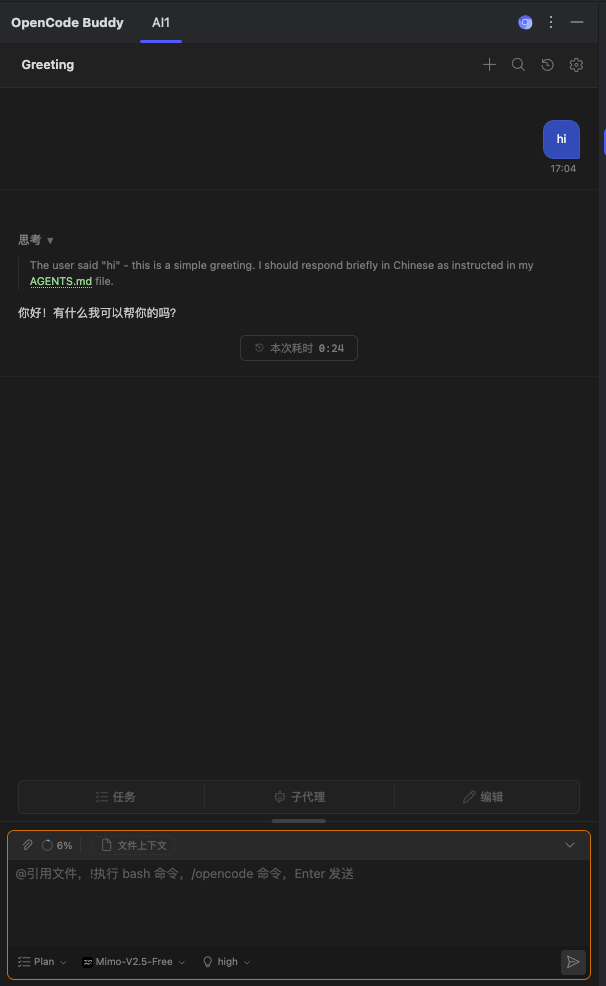
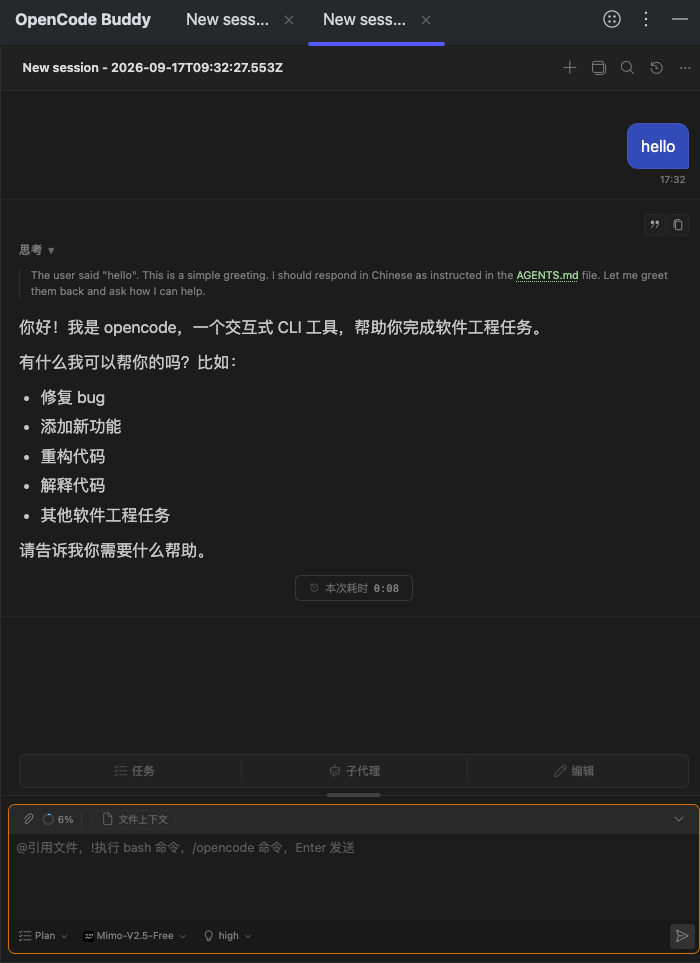
✨ 修改 readme

diff --git a/README.zh-CN.md b/README.zh-CN.md
@@ -31,57 +31,65 @@ Gemini购买了Pro套餐，DeepSeek花费约￥82.15。
 
 ## 功能特性
 
-- **持久化 opencode 守护进程** —— 无需为每条消息生成进程。`opencode serve`（默认端口 4096，可用
-  `OPENCODE_PORT` 覆盖）按需启动或复用，跨请求保持预热，崩溃后自动重启。
-- **完整聊天界面** —— 流式文本、思考增量、带 diff 的工具调用卡片；工具窗口内多标签会话，支持脱离为独立窗口。
-- **原生输入** —— `@文件名` 引用、图片附件、编辑器选区/文件路径一键发送、opencode 原生斜杠命令
-  （`/init`、`/review` 等）、`!shell` 命令，以及上下文压缩流程。
-- **Agent / 模型 / 推理力度** —— build / plan 模式切换，读取 opencode 配置里的任意 provider + model 组合，
-  以及推理力度（variant）选择。
-- **审批流** —— 权限审批（once / always / reject）、question 提问和 plan 计划审批，全部在聊天区内以原生面板呈现。
-- **会话管理** —— 本地会话索引 + 收藏 + 搜索，revert / fork / compact，历史导出。
-- **MCP** —— 服务器状态查看与市场（安装 / 移除 MCP 服务器）。
-- **IDE 集成** —— 编辑器、项目视图、编辑器标签页、控制台右键菜单动作，以及 VCS 提交工具栏的
-  *Generate Commit Message*（通过 Git4Idea 跑真实 `git diff`）。
-- **跟随 IDE** —— 明暗主题跟随 IDE，可同步 IDE 字体，界面支持中英双语。
+- **多标签与多会话管理** —— 支持在 IDE 工具窗口内打开多个独立的对话标签页，标签页支持重命名、一键新建、关闭、脱离为独立浮动窗口，并具备实时的“思考/回答中”状态指示。
+- **持久化 opencode 守护进程** —— 无需为每条消息重新生成进程。后台常驻 `opencode serve`（默认端口 4096，可用 `OPENCODE_PORT` 覆盖），通过 `@opencode-ai/sdk` v2 维持连接，支持心跳保活、进程预热与崩溃自愈重启。
+- **沉浸式完整聊天交互** —— SSE 流式文本回答、深度思考增量（Thinking 折叠/展开）、带代码 Diff 对比的工具调用卡片，支持随时中断生成、历史消息重新编辑与撤销重试。
+- **原生输入与上下文感知** —— 支持 `@文件名` 智能补全与引用、图片等多模态附件拖拽/粘贴、opencode 原生斜杠命令（`/init`、`/review` 等）自动补全、`!shell` / `$` 命令行快捷执行。
+- **Agent / 模型 / 推理力度** —— `Build` / `Plan` 双模式一键切换，实时同步本地 opencode CLI 配置的全部 Provider + Model 组合，支持自定义模型配置，以及推理力度（Reasoning Effort / Variant）与 Always Thinking 开关。
+- **交互式审批与提问流** —— 工具执行与文件修改权限审批（Once 单次 / Always 始终 / Reject 拒绝）、Agent 主动提问交互（Ask User Question 表单交互）和计划审批（Plan Approval）面板。
+- **会话管理、搜索与 Markdown 导出** —— 本地会话历史索引与检索、会话全文搜索（`Ctrl+F` / `⌘F`）、历史回退（Revert）、会话分支（Fork）、上下文压缩（Compact）、会话一键导出为标准 Markdown 文档，以及 OpenCode 会话分享链接（Share）生成与管理。
+- **Token 用量统计与可视化看板** —— 实时 Token 消耗指示器与模型上下文窗口占用百分比，点击可展开上下文用量分解详情，内置多维度 TokenTracker 统计看板（包含调用次数、消耗图表与费用预估）。
+- **MCP 市场与技能生态** —— MCP 服务器状态监控、工具列表查看，支持通过内置 MCP 市场（Marketplace）一键搜索、安装、卸载与配置 MCP 服务器，支持本地与托管 Skills 技能扫描管理。
+- **深度 IDE 融合与个性化** —— 界面深色/浅色主题自适应跟随 IDE，自动同步 IDE 编辑器与界面字体（支持自定义字体与字号），底部状态栏小组件实时提示任务状态，智能感知终端与控制台输出，界面支持中英双语无缝切换。
 
 ## 使用教程
 
 ### 1. 打开聊天窗口
 
-安装插件后，通过 **View → Tool Windows → OpenCode** 打开（默认在右侧边栏）。若本机已有 `opencode serve`
-在运行则直接复用，否则插件会自行启动一个。
+安装插件后，通过 **View → Tool Windows → OpenCode** 打开（默认停靠在右侧边栏）。若本机已有 `opencode serve` 在运行则直接复用，否则插件会自动启动常驻服务。
 
-<img src="media/home.png" width="400" alt="聊天主界面截图">
+<img src="media/home.png" width="600" alt="聊天主界面截图">
 
 聊天窗口包含：
 
-- **标签栏** —— 每个会话一个标签页，可重命名、脱离为独立窗口、存为模板。
-- **消息区** —— 流式回答、思考块、工具调用与内联 diff。
-- **输入框** —— `@文件名` 引用文件，`!命令` 执行 shell，`/命令` 执行 opencode 命令。回车发送，
-  `Shift+回车` 换行。
-- **底部工具栏** —— 模式（`Build` / `Plan`）、模型选择、推理力度、token 用量、附件，以及打开设置页的齿轮按钮。
+- **顶部标签栏** —— 支持多标签页并发对话，每个标签页维护独立会话，可双击/点击重命名，支持脱离为独立窗口或保存为模板。
+- **顶部操作栏** —— 包含返回、新建对话、新建标签页、会话内搜索、会话分享链接、Fork 分支、导出 Markdown、历史会话列表与设置按钮。
+- **消息区** —— 流式显示模型回答、思考过程折叠、工具调用详情与内联代码 Diff。
+- **输入框** —— `@文件名` 模糊搜索并引用文件，`/命令` 执行 opencode 原生斜杠命令，`!命令` 快速运行 shell 指令，支持拖拽或粘贴图片附件。回车发送，`Shift+回车` 换行（可在设置中切换快捷键模式）。
+- **底部工具栏** —— `Build` / `Plan` 模式切换、Provider 与模型选择、推理力度（Reasoning Effort）、Token 用量指示器（点击查看上下文分解）与设置入口。
 
-### 2. 快捷键与右键菜单
+### 2. 常用操作与交互指南
 
-| 操作 | 快捷键 / 位置 |
+| 功能 / 操作 | 说明 |
 |---|---|
-| 把选中的代码发送到聊天输入框 | `Ctrl+Alt+K`（Win/Linux）· `⌘⌥K`（macOS），或编辑器右键菜单 *Send Selected Code to OpenCode Buddy Plugin* |
-| 让 opencode 分析 / 改进当前代码 | `Ctrl+Shift+Q` · `⌘⇧Q`，或编辑器右键菜单 *Ask OpenCode…* |
-| 复制选区的 AI 引用 | 编辑器右键菜单 *复制 AI 引用* |
-| 把文件路径发送到聊天输入框 | 项目视图 / 编辑器标签页右键菜单 *Send File Path to OpenCode Buddy* |
-| 把控制台输出发送到聊天输入框 | 控制台右键菜单 *Send to OpenCode Buddy* |
-| 生成提交信息 | VCS 提交工具栏 *Generate Commit Message* |
-| 在聊天框内隐藏工具窗口 | `Shift+Esc` |
-| 在 IDE 侧隐藏 / 显示工具窗口 | *Hide CC GUI Panel* 动作 —— 可在 **Settings → Keymap** 里绑定快捷键 |
+| **多标签会话** | 点击顶部 `+` 或工具栏新增标签页，多会话互不干扰；标签页右上角可将当前会话脱离为独立浮动窗口 |
+| **文件引用与补全** | 在输入框中输入 `@` 触发项目文件模糊搜索列表，支持键盘上下键选择并回车插入引用 |
+| **斜杠命令补全** | 在输入框中输入 `/` 弹出可用命令列表（如 `/init`、`/review`、`/compact` 等） |
+| **终端命令快捷执行** | 在输入框中以 `!` 或 `$` 开头直接执行终端命令 |
+| **附件与图片** | 支持将图片直接拖入输入框或从系统剪贴板粘贴（`Ctrl+V` / `⌘V`） |
+| **会话内搜索** | 点击顶部搜索图标或在聊天面板内按 `Ctrl+F` / `⌘F` 搜索历史消息内容 |
+| **导出 Markdown** | 点击顶部文档导出图标，可将完整会话（含对话、思考过程、工具调用与代码 Diff）一键导出为 `.md` 文件 |
+| **会话分享 (Share)** | 点击顶部分享图标，直接生成 OpenCode Web 分享链接并一键复制 |
+| **消息回退与分支** | 支持在历史消息上进行 Revert（回退到该步骤）或 Fork（从该步骤分叉出新会话） |
+| **审批与提问交互** | 当 Agent 触发工具执行或提问时，界面会弹出原生审批卡片（允许/拒绝）或选项表单，确认后继续执行 |
+| **Token 消耗详情** | 点击底部 Token 百分比指示器，可弹出当前会话上下文窗口占用与输入/输出 Token 分布详情 |
 
 ### 3. 个性化设置
 
-所有设置都在 webview 内：点击聊天窗口右上角的**齿轮图标**。左侧栏包含**基础配置**（主题、语言、字体、
-diff 主题、聊天背景色）、**供应商管理**、**命令（提示词）**、**使用统计**、**MCP 服务器**、**Skills**、
-**其他设置** 和 **赞赏支持**。持久化数据存放在 `~/.opencodebuddy`。
+点击聊天窗口右上角的**齿轮图标**进入设置界面。持久化配置保存在 `~/.opencodebuddy` 目录下：
 
-<img src="media/settings.png" width="400" alt="设置页截图">
+- **基础配置 (Basic Configuration)**：
+  - **外观**：明暗主题切换（跟随 IDE / Light / Dark）、字体同步（自动同步 IDE 字体 / 自定义字体文件与字号）、聊天背景色、气泡颜色与 Diff 高亮主题。
+  - **行为**：发送快捷键（`Enter` 或 `⌘+Enter`）、文件自动打开、Diff 默认展开、新建/压缩会话确认弹窗、任务完成气泡通知、提问弹窗提示、审批超时倒计时与提示音效配置。
+  - **环境**：Node.js 路径检测与自定义配置、`opencode` CLI 路径指定与检测、自定义工作目录。
+- **供应商管理 (Providers)**：查看和管理已配置的 Provider 与模型列表，支持添加自定义模型参数。
+- **使用统计 (Usage Statistics)**：内置 TokenTracker 数据看板，直观展示 Token 用量走势、调用频率与成本估算。
+- **MCP 服务器 (MCP Servers)**：查看已连接的 MCP 服务器与工具列表，并通过 **MCP 市场 (Marketplace)** 一键安装与配置各类 MCP 插件。
+- **Skills 技能管理**：扫描并管理项目工作区或全局的 Skills 扩展。
+- **其他设置**：历史记录数量上限、提示词管理与缓存清理。
+- **社区与赞赏**：版本更新日志（Changelog）、问题反馈与赞助支持。
+
+<img src="media/settings.png" width="600" alt="设置页截图">
 
 ## 环境要求
 

diff --git a/README.md b/README.md
@@ -31,65 +31,67 @@ donations are welcome — they help cover those costs.
 
 ## Features
 
-- **Persistent opencode daemon** — no per-message process spawn. `opencode serve` (default port 4096,
-  overridable with `OPENCODE_PORT`) is started or reused on demand, kept warm across requests, and restarted
-  on crash.
-- **Full chat surface** — streaming text, thinking deltas and tool-call cards with diffs; multi-tab
-  conversations inside the tool window and a detachable window.
-- **Native input** — `@file` mentions, image attachments, one-click send of the editor selection or file path,
-  opencode slash commands (`/init`, `/review`, …), `!shell` commands and a context-compaction flow.
-- **Agent, model & effort** — build / plan mode switching, any provider+model pair from your opencode
-  configuration, and reasoning-effort variants.
-- **Approvals** — permission dialogs (once / always / reject), question prompts and plan approval, all rendered
-  as native panels inside the chat.
-- **Sessions** — local session index with favourites and search, revert / fork / compact, history export.
-- **MCP** — server status and a marketplace for installing/removing MCP servers.
-- **IDE integration** — editor, project-view, editor-tab and console context-menu actions, plus *Generate Commit
-  Message* in the VCS commit toolbar (runs a real `git diff` through Git4Idea).
-- **Fits your IDE** — follows the IDE light/dark theme, can sync the IDE font, and ships a bilingual UI
-  (English / 简体中文).
+- **Multi-Tab & Multi-Session Management** — Open multiple independent conversation tabs inside the IDE tool window. Supports tab renaming, one-click creation, closing, detaching into floating windows, and live "answering / completed" status indicators.
+- **Persistent opencode Daemon** — No per-message process spawning. `opencode serve` (default port 4096, overridable with `OPENCODE_PORT`) runs as a persistent background daemon via `@opencode-ai/sdk` v2 with prewarm, heartbeat, and crash recovery.
+- **Rich Chat Surface** — SSE streamed responses, collapsible thinking deltas, tool-call cards with inline code diffs, generation interruption, and turn-by-turn edit / rewind.
+- **Native Input & Rich Context** — `@filename` fuzzy file search and insertion, image and attachment drag-and-drop / clipboard pasting, opencode slash commands (`/init`, `/review`, …), and `!shell` / `$` command execution.
+- **Agent, Models & Reasoning Effort** — One-click `Build` / `Plan` mode switching, full sync with all Provider + Model options in your local opencode configuration, custom model settings, reasoning-effort (variant) selection, and Always Thinking toggle.
+- **Interactive Approvals & Question Flows** — Native inline dialogs for tool execution / file modification permissions (Once / Always / Reject), Ask User Question interactive forms, and Plan Approval review.
+- **Session History, Search & Markdown Export** — Local session index with search (`Ctrl+F` / `⌘F`), session revert, conversation branching (Fork), context compaction, one-click export to Markdown (`.md`), and OpenCode Web share link generation.
+- **Token Usage & TokenTracker Dashboard** — Real-time token consumption indicator and context window percentage, expandable context usage breakdown, and built-in multi-dimensional TokenTracker dashboard (request count, consumption charts, cost estimation).
+- **MCP Marketplace & Skills** — MCP server status monitoring, tools overview, one-click install/uninstall/configure via the built-in MCP Marketplace, and workspace/managed Skills scanning.
+- **Deep IDE Integration & Customization** — Auto light/dark theme adaptation with the IDE, IDE editor & UI font synchronization (with custom font & size support), status-bar widget for agent status, terminal/console output awareness, and bilingual UI (English / 简体中文).
 
 ## Usage
 
 ### 1. Open the chat window
 
-Install the plugin, then open **View → Tool Windows → OpenCode** (it lives in the right sidebar stripe). The
-plugin reuses an `opencode serve` instance when one is already running and otherwise starts its own.
+Install the plugin, then open **View → Tool Windows → OpenCode** (docked in the right sidebar stripe). The plugin reuses an `opencode serve` instance when one is already running and otherwise starts its own daemon automatically.
 
-<img src="media/home.png" width="400" alt="Chat window">
+<img src="media/home.png" width="600" alt="Chat window">
 
 *The screenshot shows the UI in Simplified Chinese.*
 
 The chat window contains:
 
-- **Tab bar** — one tab per conversation; tabs can be renamed, detached into their own window, or templated.
-- **Message area** — streamed answer, thinking blocks and tool calls, with inline diffs.
-- **Input box** — `@filename` attaches files, `!command` runs a shell command, `/command` runs an opencode
-  command. `Enter` sends, `Shift+Enter` inserts a newline.
-- **Bottom toolbar** — mode (`Build` / `Plan`), model selector, reasoning depth, token usage, attachments, and
-  the gear icon that opens settings.
+- **Top Tab Bar** — Multi-tab concurrent conversations; tabs maintain independent state and can be renamed, closed, detached into floating windows, or saved as templates.
+- **Top Action Bar** — Back navigation, new conversation, new tab (`+`), in-conversation search, session share link, fork conversation, export Markdown, session history, and settings.
+- **Message Area** — Streamed responses, collapsible thinking blocks, tool calls with interactive diffs.
+- **Input Box** — `@filename` attaches files, `/command` runs opencode slash commands, `!command` runs shell commands, image attachments via drag & drop or paste. `Enter` sends, `Shift+Enter` inserts a newline (customizable in settings).
+- **Bottom Toolbar** — `Build` / `Plan` mode switch, Provider & model selector, reasoning effort, Token usage indicator (click to view context breakdown), and settings gear icon.
 
-### 2. Keyboard shortcuts and context menus
+### 2. Common Operations & Interaction Guide
 
-| Action | Shortcut / where |
+| Action / Feature | Description |
 |---|---|
-| Send the selected code to the chat input | `Ctrl+Alt+K` (Windows/Linux) · `⌘⌥K` (macOS), or *Send Selected Code to OpenCode Buddy Plugin* in the editor context menu |
-| Ask opencode to analyse / improve the current code | `Ctrl+Shift+Q` · `⌘⇧Q`, or *Ask OpenCode…* in the editor context menu |
-| Copy an AI reference for the selection | *Copy AI Reference* in the editor context menu |
-| Send a file path to the chat input | *Send File Path to OpenCode Buddy* in the Project view / editor tab context menu |
-| Send console output to the chat input | *Send to OpenCode Buddy* in the console context menu |
-| Generate a commit message | *Generate Commit Message* action in the VCS commit toolbar |
-| Hide the tool window while typing in the chat | `Shift+Esc` |
-| Hide / show the tool window from the IDE | *Hide CC GUI Panel* action — bind a shortcut in **Settings → Keymap** |
+| **Multi-Tab Sessions** | Click `+` in the header or toolbar to add new tabs; each tab runs an isolated session. Detach tabs into floating windows via the tab controls |
+| **File Mentions & Completion** | Type `@` in the input box to trigger fuzzy file search in the project, navigate with arrow keys, and press Enter to insert |
+| **Slash Command Completion** | Type `/` to open the command palette (e.g., `/init`, `/review`, `/compact`, …) |
+| **Quick Shell Execution** | Prefix input with `!` or `$` to execute shell commands directly |
+| **Images & Attachments** | Drag and drop image files directly into the input box or paste from clipboard (`Ctrl+V` / `⌘V`) |
+| **In-Conversation Search** | Click the search icon in the header or press `Ctrl+F` / `⌘F` inside the chat window |
+| **Export Markdown** | Click the document export icon in the header to save the conversation (dialogue, thinking, tool calls, and diffs) as a `.md` file |
+| **Share Session** | Click the share icon in the header to generate an OpenCode Web share link and copy it to clipboard |
+| **Revert & Fork** | Rollback to any previous step (Revert) or branch off into a new session from that point (Fork) |
+| **Approvals & Questions** | Responsive inline cards for permission approvals (once / always / reject) and interactive questionnaire forms |
+| **Token Usage Breakdown** | Click the token percentage pill in the toolbar to inspect model context window usage and prompt/completion breakdowns |
 
 ### 3. Settings
 
-All plugin settings live inside the webview: click the **gear icon** in the top-right of the chat window. The
-sidebar holds **Basic Configuration** (theme, language, fonts, diff theme, chat background), **Provider
-Management**, **Commands (Prompts)**, **Usage Statistics**, **MCP Servers**, **Skills**, **Other Settings** and
-**Sponsor**. Persistent state is stored under `~/.opencodebuddy`.
+Click the **gear icon** in the top-right of the chat window to open Settings. Persistent configuration is stored under `~/.opencodebuddy`:
 
-<img src="media/settings.png" width="400" alt="Settings page">
+- **Basic Configuration**:
+  - **Appearance**: Theme selection (Follow IDE / Light / Dark), font sync (sync with IDE font / custom font file & size), chat background color, user message color, and diff highlighting theme.
+  - **Behavior**: Send shortcut (`Enter` vs `⌘+Enter`), auto open file, diff expanded by default, confirm dialogs (new session / compaction), task completion balloon notifications, question prompts, approval timeouts, and sound notifications.
+  - **Environment**: Node.js path auto-detection & custom path, `opencode` CLI path configuration & validation, custom working directory.
+- **Provider Management**: View and configure opencode providers and models, with support for custom model parameters.
+- **Usage Statistics**: Integrated TokenTracker dashboard with token trends, request frequencies, and cost estimations.
+- **MCP Servers**: Server status monitoring, tool catalog, and the **MCP Marketplace** for installing, configuring, and updating MCP servers.
+- **Skills**: Scan and manage project workspace and global skills.
+- **Other Settings**: History retention limit, prompt cache, and maintenance.
+- **Community & Sponsor**: Version changelog, feedback channels, and sponsor links.
+
+<img src="media/settings.png" width="600" alt="Settings page">
 
 *Settings → Basic Configuration → Appearance; UI labels are in Simplified Chinese.*
 
